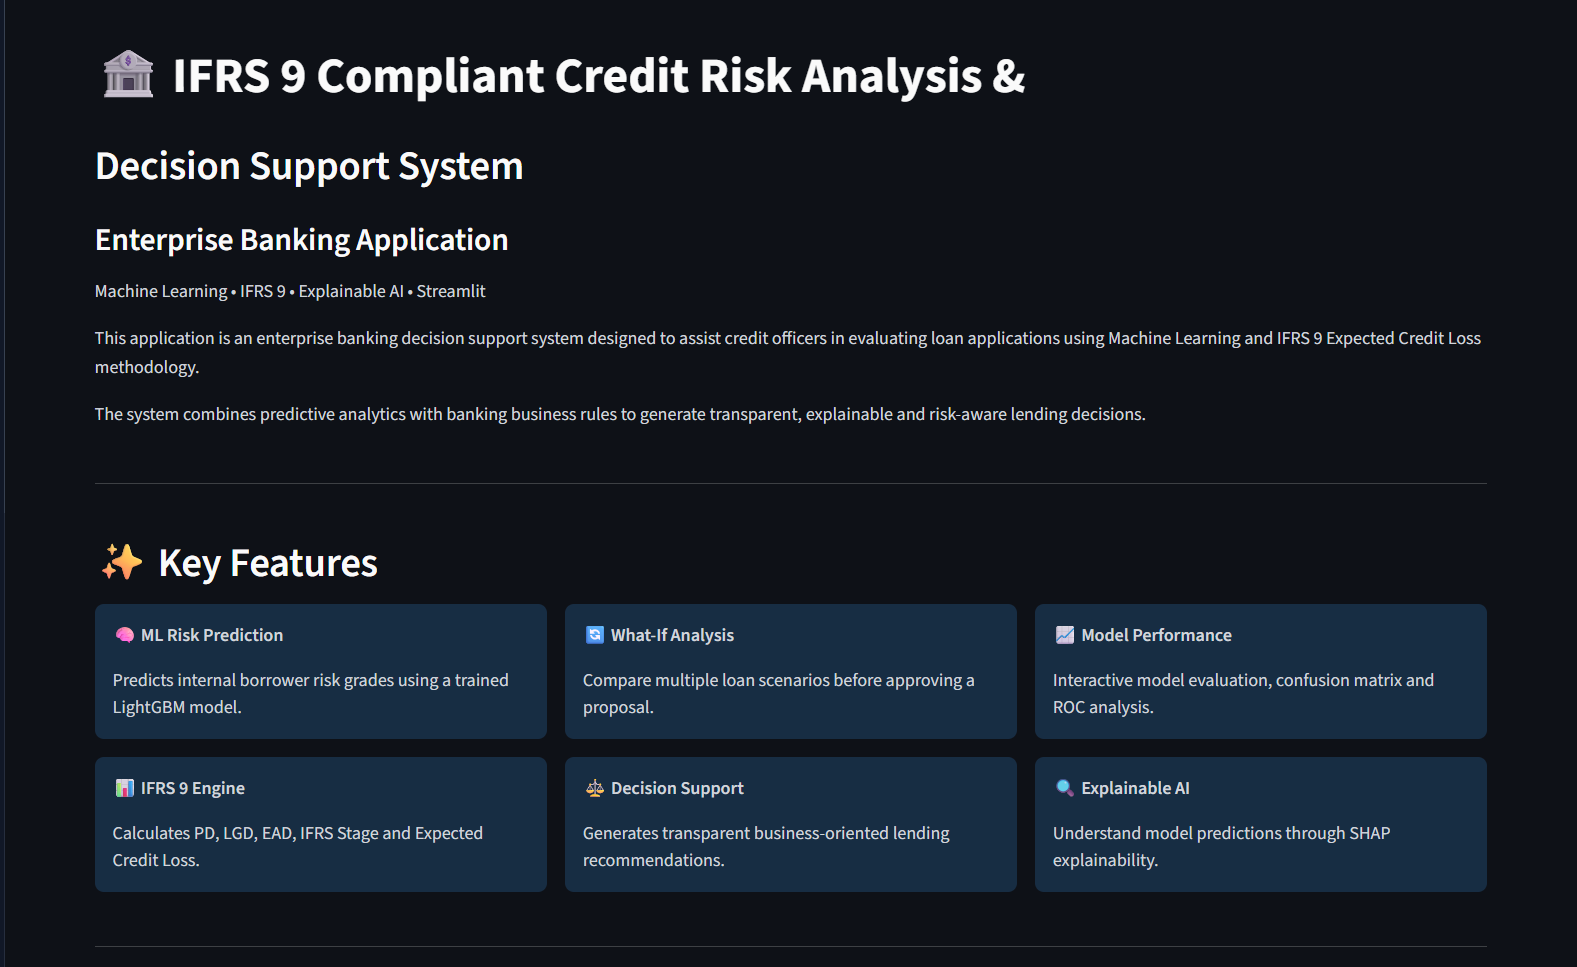
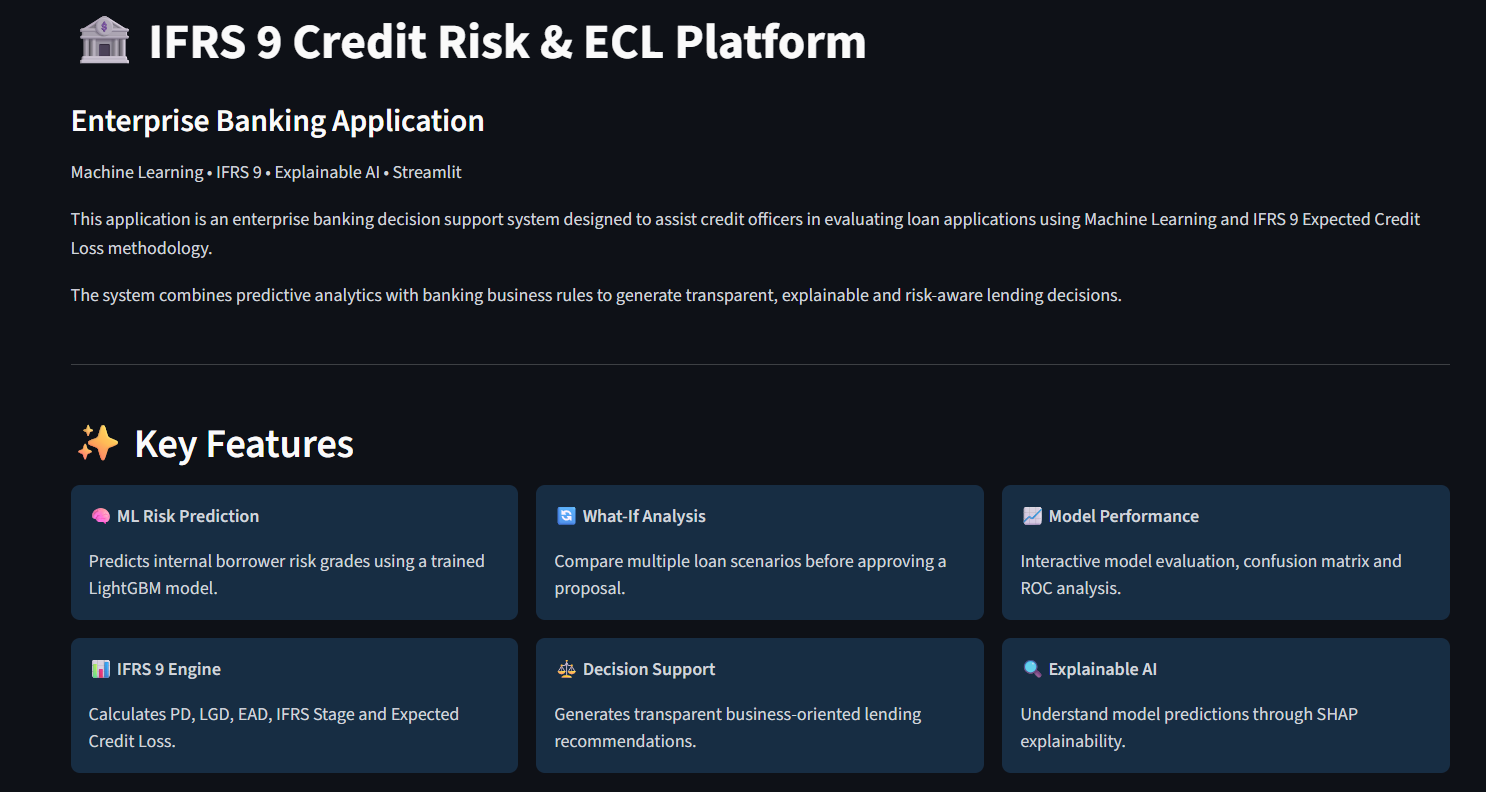
changes

Changed region(s): [[0.031, 0.5455, 0.9906, 1.0], [0.031, 0.0, 0.9596, 0.3939], [0.0619, 0.4242, 0.7429, 0.4545]]

diff --git a/pages/About.py b/pages/About.py
@@ -14,12 +14,6 @@ st.set_page_config(
 
 st.title("ℹ️ About Page")
 
-st.subheader(
-    "IFRS 9 Compliant Credit Risk Analysis & Decision Support System"
-)
-
-st.divider()
-
 
 # ==========================================================
 # HERO SECTION
@@ -29,8 +23,7 @@ st.markdown("---")
 
 st.markdown(
 """
-# 🏦 IFRS 9 Compliant Credit Risk Analysis &
-## Decision Support System
+# 🏦 IFRS 9 Credit Risk & ECL Platform
 
 ### Enterprise Banking Application
 

diff --git a/pages/Dashboard.py b/pages/Dashboard.py
@@ -22,7 +22,7 @@ import streamlit as st
 st.title("🏦 RiskLens")
 
 st.markdown(
-    "### IFRS 9 Compliant Credit Risk & Expected Credit Loss (ECL) Platform"
+    "### IFRS 9 Credit Risk & ECL Platform"
 )
 
 st.write(

diff --git a/src/components.py b/src/components.py
@@ -247,7 +247,7 @@ def create_footer():
     st.divider()
 
     st.caption(
-        "RiskLens An enterprise AI Credit Risk Management System | Developed by Pradhuman Kumar Soni"
+        "RiskLens | IFRS 9 Credit Risk & ECL Platform | Developed by Pradhuman Kumar Soni"
     )
 
 # ==========================================================

diff --git a/app.py b/app.py
@@ -17,7 +17,6 @@ about = st.Page("pages/About.py", title="ℹ️ About")
 
 with st.sidebar:
     st.title("🏦 RiskLens")
-    st.caption("IFRS 9 Decision Support System")
 st.sidebar.markdown("---")
 
 pg = st.navigation([dashboard, loan, model , about])